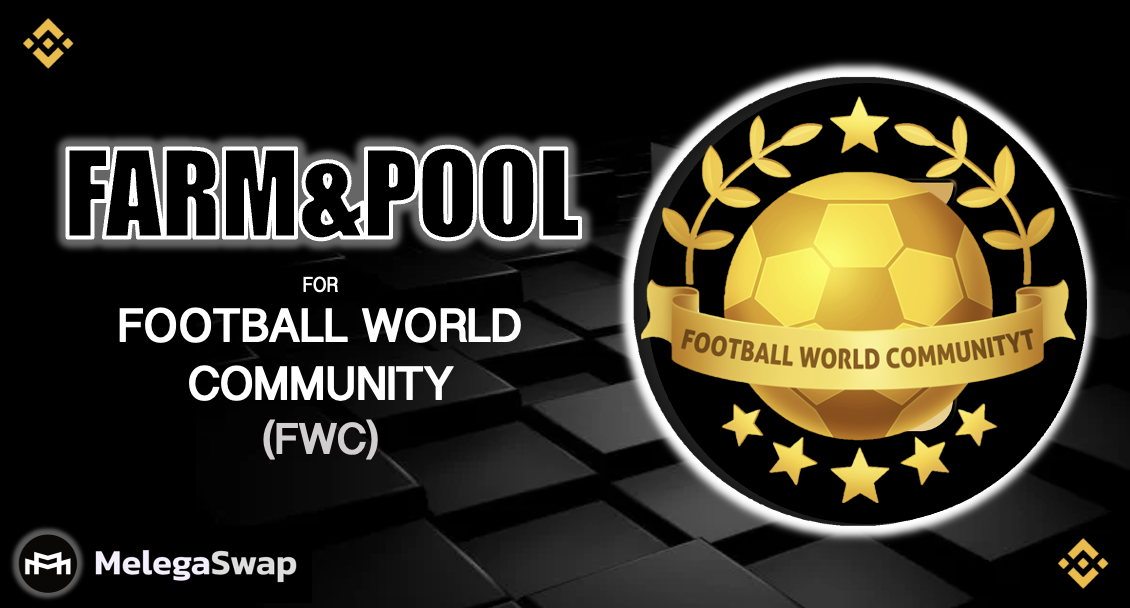
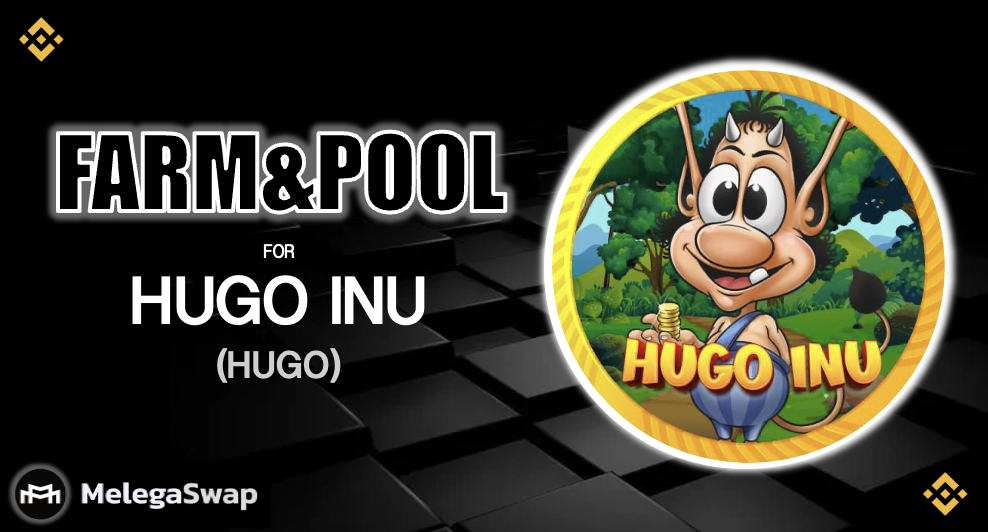
farm

diff --git a/src/config/constants/tokens.ts b/src/config/constants/tokens.ts
@@ -73,6 +73,24 @@ const tokens = {
     decimals: 18,
     projectLink: 'https://melega.finance/',
   },
+  HUGO: {
+    symbol: 'HUGO',
+    address: {
+      56: '0x28E3fF085F67163532a843fBF714178770A0210c',
+      97: '0xa35062141Fa33BCA92Ce69FeD37D0E8908868AAe',
+    },
+    decimals: 9,
+    projectLink: 'https://hugoinu.com/',
+  },
+  GOGU: {
+    symbol: 'GOGU',
+    address: {
+      56: '0x1bd5B673627810576F490135A3E54847DA1d9C58',
+      97: '0xa35062141Fa33BCA92Ce69FeD37D0E8908868AAe',
+    },
+    decimals: 9,
+    projectLink: 'https://gogucoin.com',
+  },
   SUP: {
     symbol: 'SUP',
     address: {

diff --git a/src/config/constants/farms.ts b/src/config/constants/farms.ts
@@ -1545,6 +1545,28 @@ const farms: FarmConfig[] = [
     token: tokens.PRP,
     quoteToken: tokens.wbnb,
   }
+  ,
+  {
+    pid: 141,
+    lpSymbol: 'HUGO-BNB LP',
+    lpAddresses: {
+      97: '',
+      56: '0xeF8e4491d077D5C5d5cAD5AFFF3BC0E4aA0C24B5',
+    },
+    token: tokens.HUGO,
+    quoteToken: tokens.wbnb,
+  }
+  ,
+  {
+    pid: 142,
+    lpSymbol: 'GOGU-BNB LP',
+    lpAddresses: {
+      97: '',
+      56: '0x615B243FEc2EB51F53545A30433C98D2A3E79a79',
+    },
+    token: tokens.GOGU,
+    quoteToken: tokens.wbnb,
+  }
 ]
 
 export default farms

diff --git a/src/config/constants/pools.ts b/src/config/constants/pools.ts
@@ -1567,6 +1567,7 @@ const pools: PoolConfig[] = [
     sortOrder: 1,
     isFinished: false,
   }
+  
 ]
 
 export default pools
